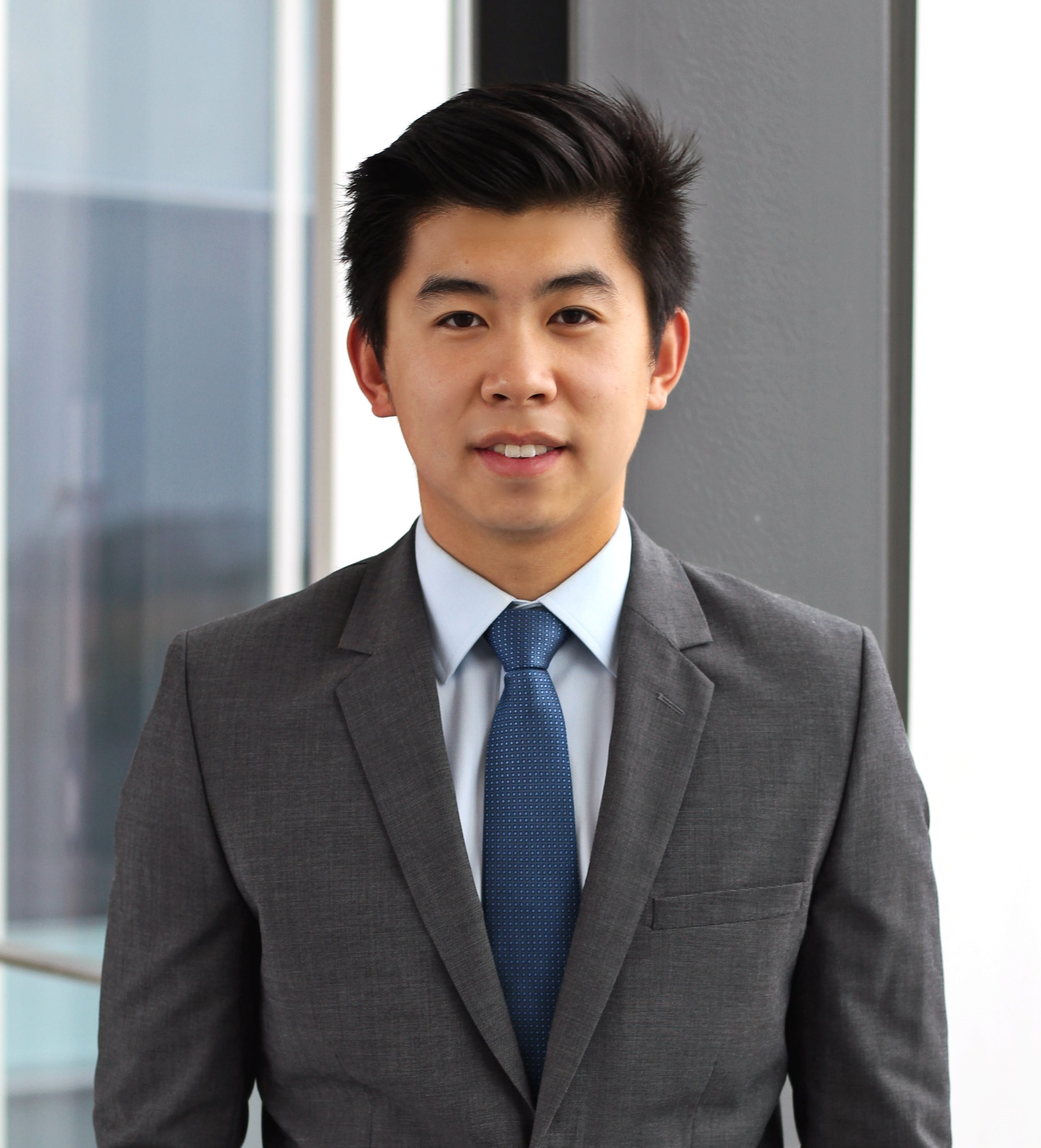
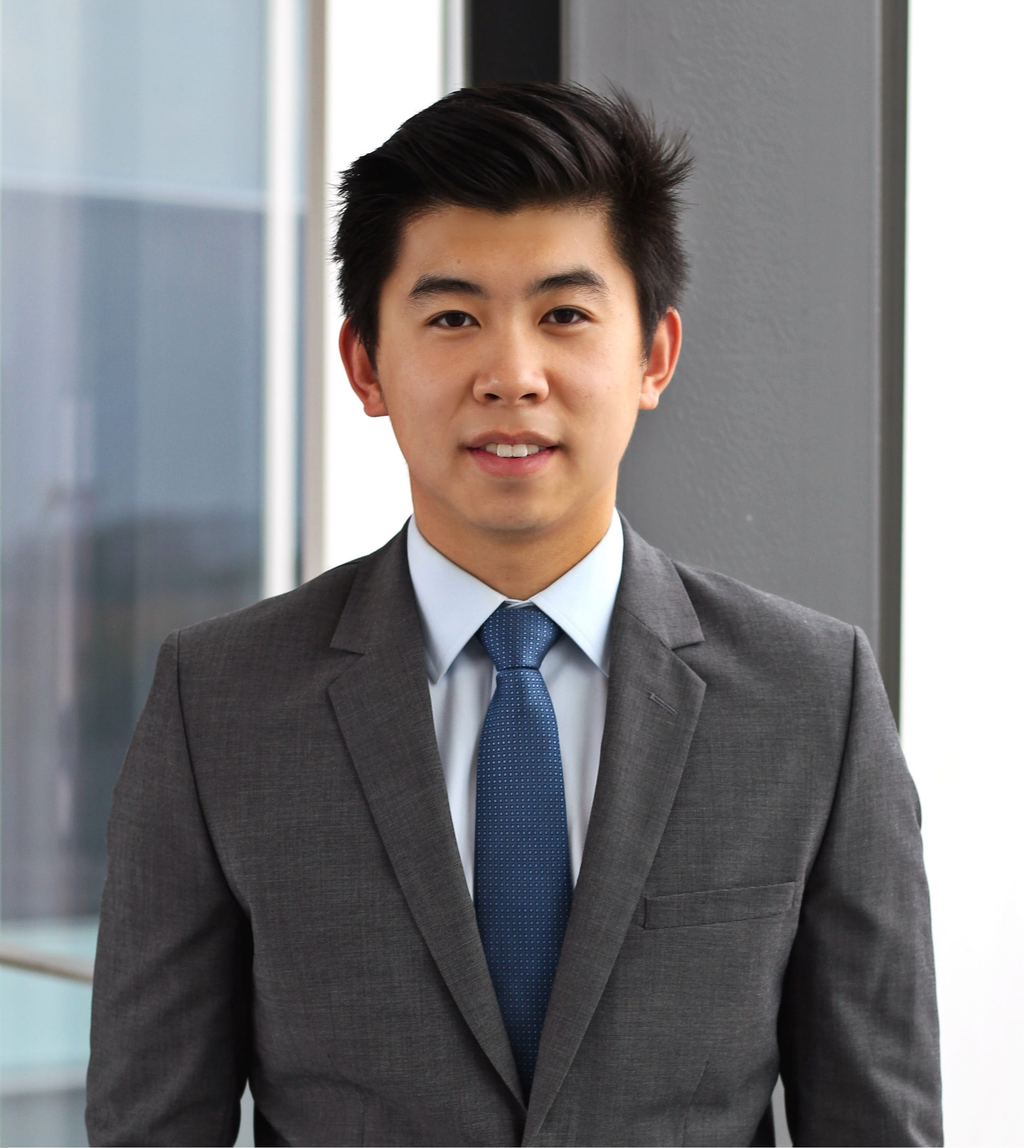
v0.3 typos, formatting, color

diff --git a/index.html b/index.html
@@ -11,55 +11,54 @@
       <div id="header">
         <h1><big>Richard Yang </big></h1>
         <p id="top_description">
-          Currently a <b>manufacturing engineer</b> at 
-          <a href="https://www.spartanbio.com/">Spartan Bioscience</a>
-          , developing sample-to-result DNA testing technology. 
+          — Currently a <b>manufacturing engineer</b> at 
+          <a href="https://www.spartanbio.com/">Spartan Bioscience,</a>
+          developing sample-to-result DNA and bacteria testing technology. 
         </p>
       </div>
 
       <div id="experience">
-        <p >
+        <p id="current">
           <b>Manufacturing Engineer</b><br>
-          On-demand DNA testing systems<br>
+          On-demand DNA and bacteria testing systems<br>
           <a href="https://www.spartanbio.com/" id="no_underline">Spartan Bioscience </a>
            | Nov. 2019 - Present
         </p>
-        <br>
         <h2>Previously,</h2>
         
         <p >
           <b>Manufacturing Engineering Intern</b><br>
-          3D SLA printing with resin <br>
           <a href="https://formlabs.com/" id="no_underline">Formlabs </a>
-           | Sept. - Dec. 2018
+          | Sept. - Dec. 2018  <br>
+          3D SLA resin printing
         </p>
 
         <p >
           <b>Mechanical Design Intern</b><br>
-          Dynamic Suspension Spool Valve (DSSV) dampers<br>
           <a href="https://www.multimatic.com/" id="no_underline">Multimatic </a>
-           | Jan. - Apr. 2018
+           | Jan. - Apr. 2018 <br>
+           Dynamic Suspension Spool Valve (DSSV) dampers
         </p>
 
         <p >
           <b>Product Design Intern</b><br>
-          Pressure imaging sensors<br>
           <a href="https://www.xsensor.com/" id="no_underline">XSensor Technology </a>
-           | May - Aug. 2017
+           | May - Aug. 2017<br>
+           Pressure imaging sensors
         </p>
 
         <p >
           <b>Process Engineering Intern</b><br>
-          High-volume manufacturing for aerospace<br>
           <a href="https://dellcom.ca/" id="no_underline">Dellcom Aerospace </a>
-           | Aug. - Dec. 2016
+           | Aug. - Dec. 2016<br>
+           High-volume aerospace manufacturing
         </p>
 
         <p >
           <b>Mechanical Design Intern</b><br>
-          Consumer personal care products<br>
           <a href="https://www.kimberly-clark.com/en" id="no_underline">Kimberly Clark </a>
-           | Jan. - Apr. 2016
+           | Jan. - Apr. 2016<br>
+           Consumer personal care & health products
         </p>
 
       </div>
@@ -70,6 +69,7 @@
     
       <div id="contact">
         <p align="right">
+          <br>
           <b>BaSc, Mechanical Engineering</b><br>
           University of Waterloo<br>
           2014 - 2019

diff --git a/style.css b/style.css
@@ -20,6 +20,11 @@ h1 {
     overflow:hidden;
 }
 
+#current{
+    padding-top:3px;
+    padding-bottom:20px;
+}
+
 a {
     color: #000000;
     text-decoration: underline;
@@ -40,10 +45,29 @@ a {
     line-height: 1.2;
 }
 
-#header{ float:top; height: 22% }
-#experience{ float:left; width:50%;  height:700px;}
-#photo{ float:right; height:35%; margin-bottom:20px}
-#contact{ float:right; width:45%; height:70%;}
+#header{ 
+    float:top; 
+    height: 22% 
+}
+
+#experience{ 
+    float:left; 
+    width:50%;  
+    height:700px; 
+    vertical-align: top;
+}
+
+#photo{
+    float:right; 
+    height:30%; 
+    margin-bottom:40px
+}
+
+#contact{ 
+    float:right; 
+    width:45%; 
+    height:70%;
+}
 
 .alignleft {
     float: left;
@@ -56,3 +80,7 @@ a {
 html {
     scroll-behavior: smooth;
 }
+
+body {
+    background-color:   #f5f5f5   ;
+  }

diff --git a/README.md b/README.md
@@ -1,8 +1,10 @@
 # website
 
+Trying out various Github features.
+
 [www.richardyang.ca](www.richardyang.ca)
 
-[Resume](resume.pdf
+[Resume](resume.pdf)
 
 [Portfolio](portfolio.pdf)
 
